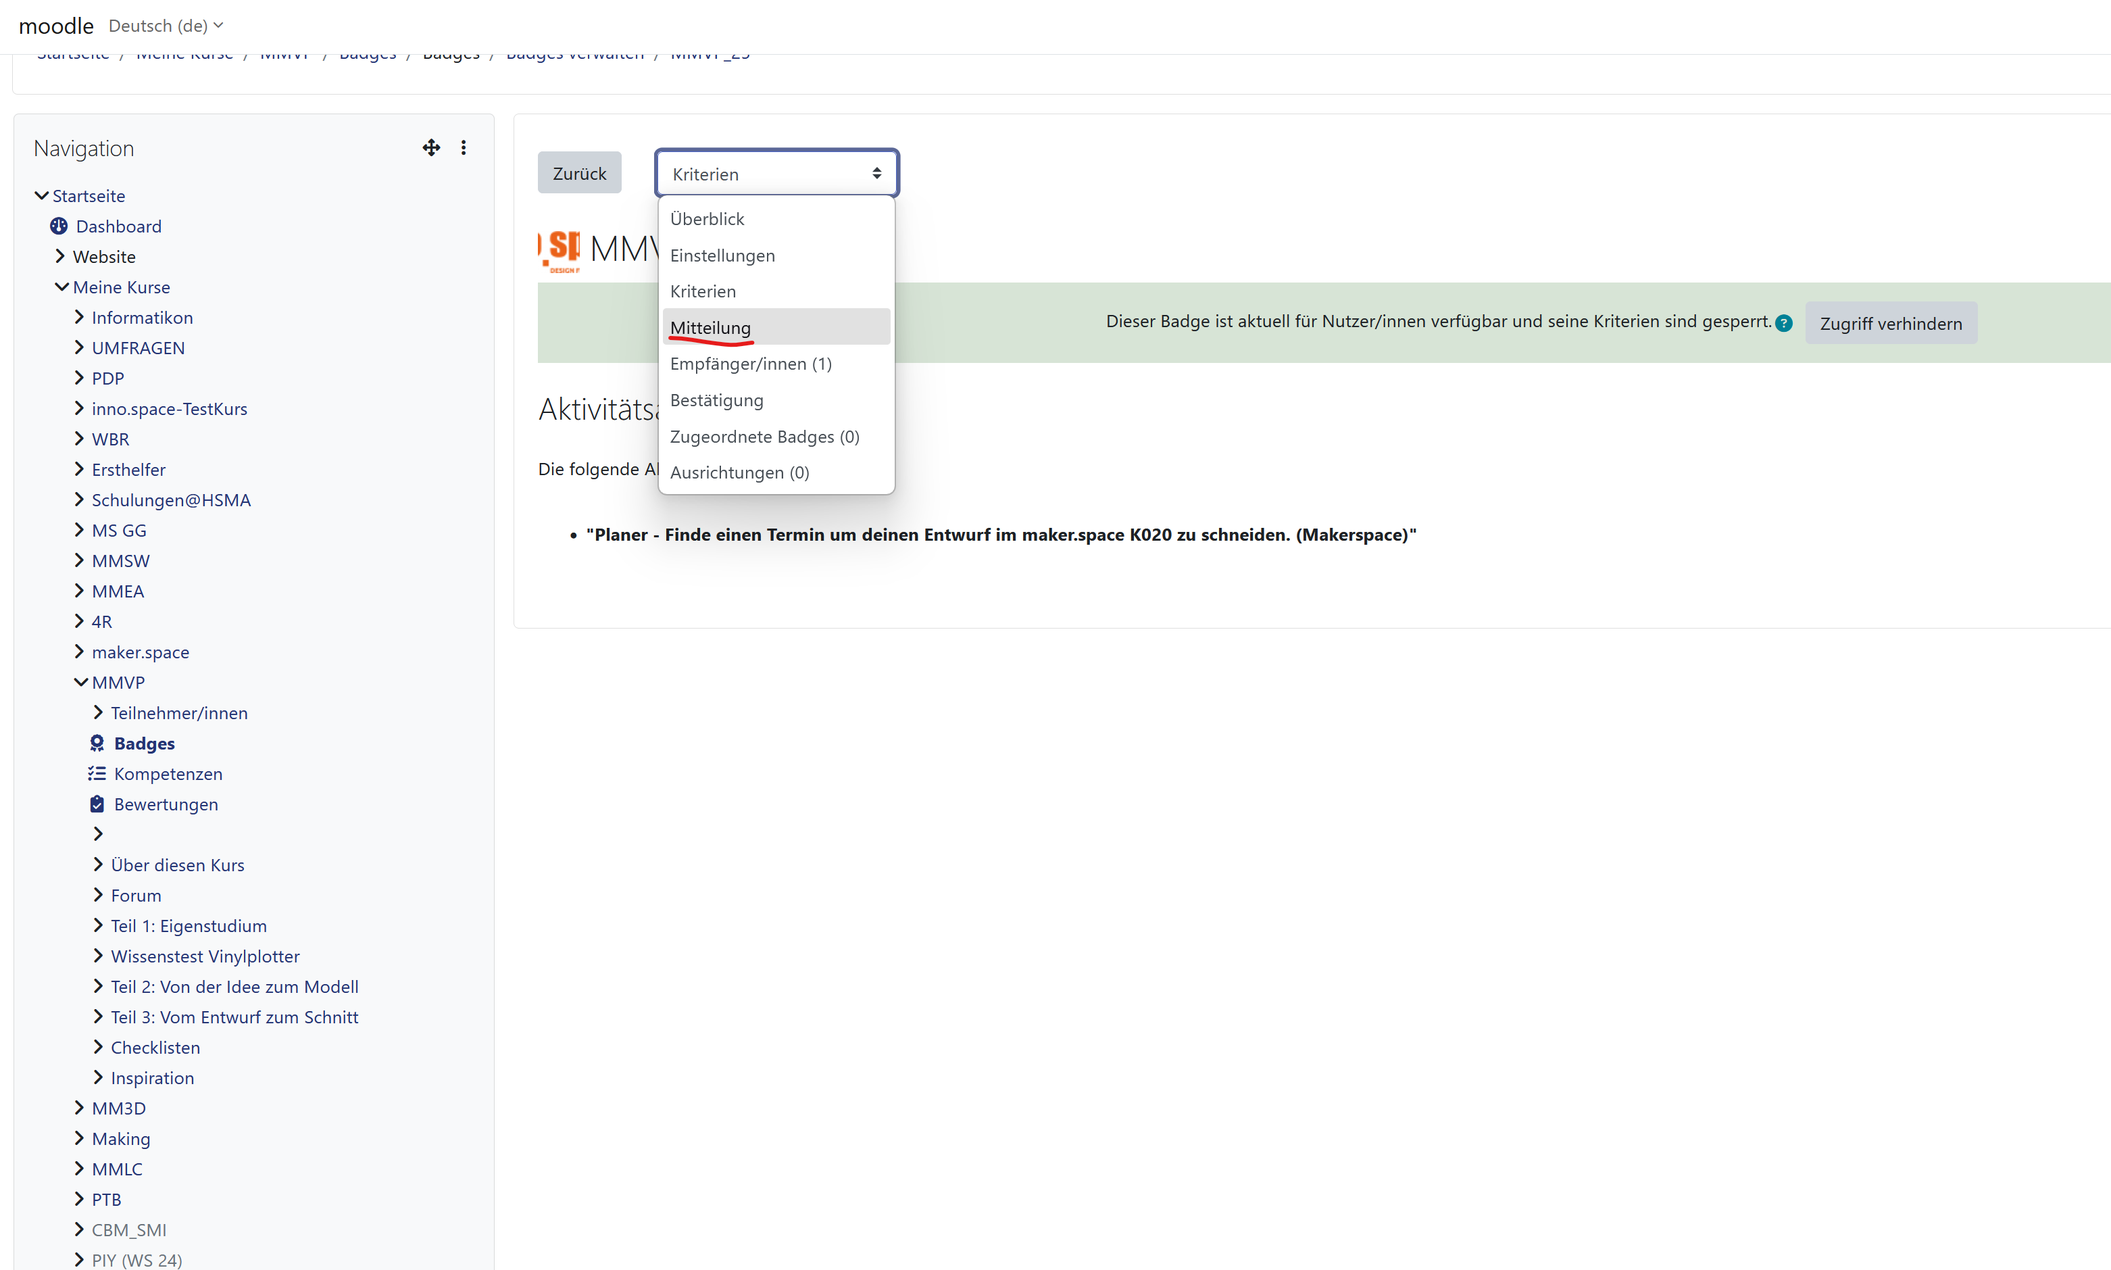
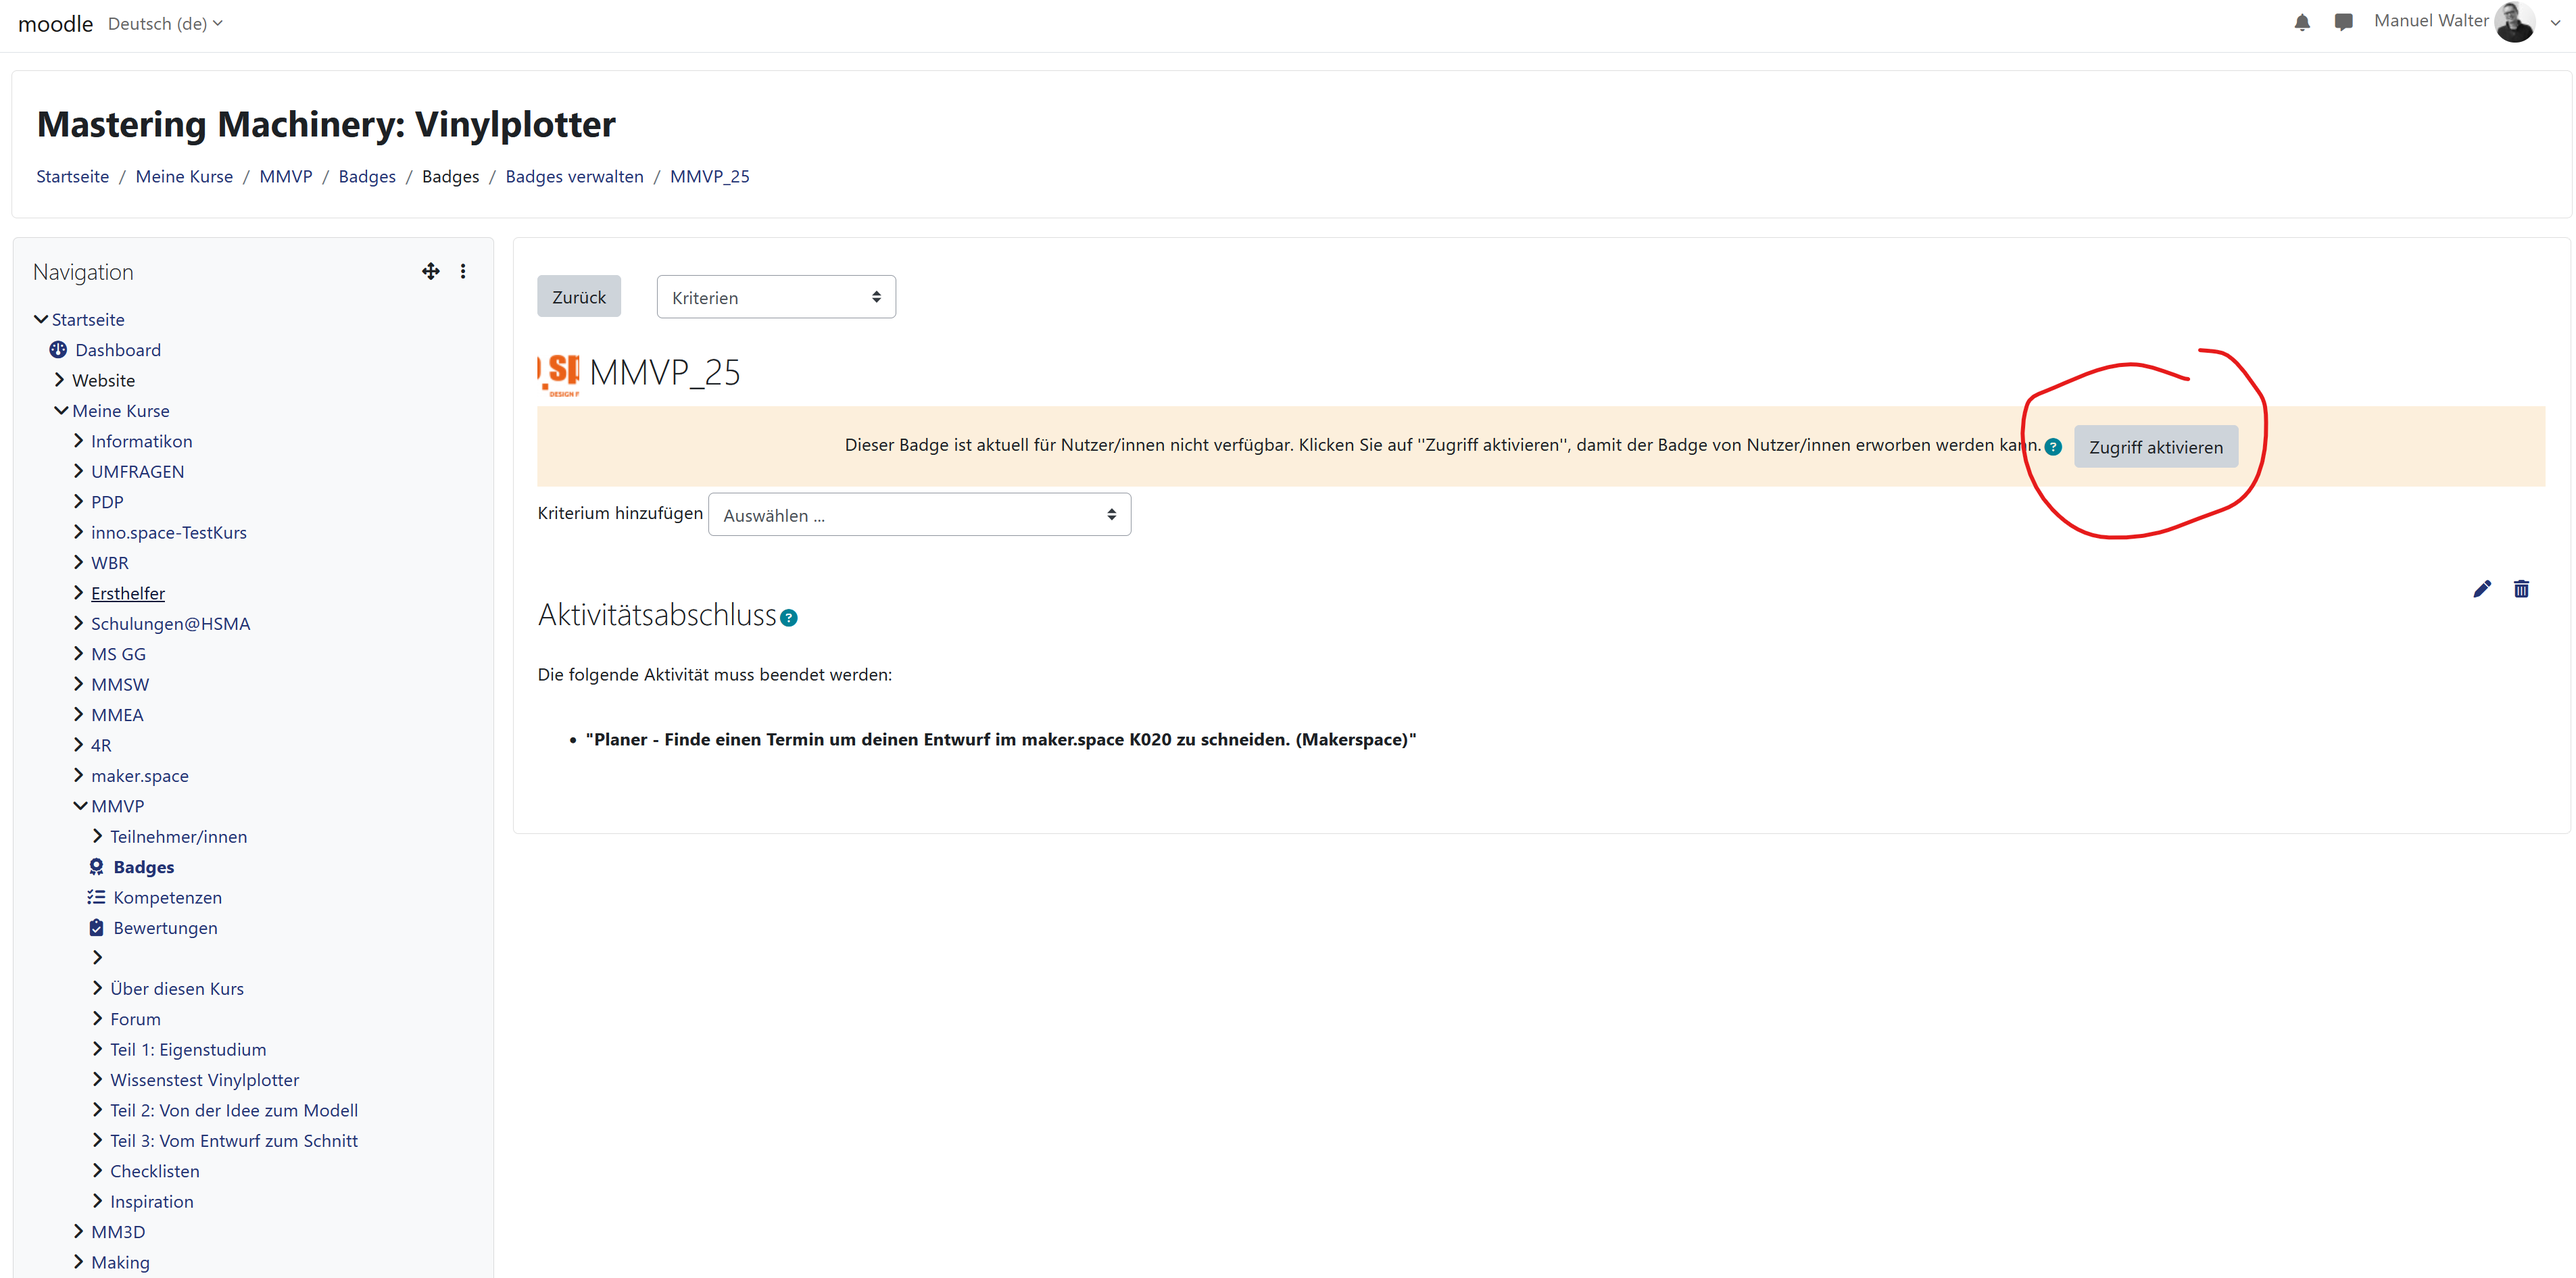
added tutorial for badges

diff --git a/README.md b/README.md
@@ -111,19 +111,112 @@ Nachfolgend befindet sich eine Schritt für Schritt Anleitung zum korrekten Anle
 
 
 ## Terminbuchungskalender für Präsenzschulungen
-Pro Schulung wird im entsprechenden Moodle Kurs ein Terminbuchungskalender (Planer) angelegt. Damit alles reibungslos funktioniert, muss der Kalender entsprechend der nachfolgenden Anleitung angelegt bzw. angepasst werden.
+Pro Schulung wird im entsprechenden Moodle Kurs ein Terminbuchungskalender (Planer) angelegt. Damit alles reibungslos funktioniert, muss der Kalender entsprechend der nachfolgenden Anleitung angelegt bzw. angepasst werden. Außerdem muss die Abschlussverfolgung in den jeweiligen Kurseinstellungen aktiviert sein. 
+
+### 0. Planereinstellungen öffnen
+- Die Einstellungen der entsprechenden Planeraktivität öffnen
+
+### 1. Bewertungen konfigurieren
+- Bewertung vom Typ Punkt mit Maximalpunkte 1 konfigurieren
+- Bewertungskategorie: Nicht kategorisiert
+- Bestehensgrenze: 1
+
+<center><img src="img_readme/MM-Kalenderbewertung1.png" width="1200" /></center>
 
 
+### 2. Abschlussbedingungen festlegen
+- Abschlussbedingung hinzufügen
+- Aktivität ist abgeschlossen, wenn TN eine Bewertung erhalten und damit die Bestehendgrenze erreichen
+
+! Wenn die Überschrift Abschlussbedingungen in den Einstellungen nicht zu finden ist, ist wahrscheinlich die Abschlussverfolgung in den Kurseinstellungen noch nicht aktiviert !
+
+<center><img src="img_readme/MM-Kalenderbewertung2.png" width="1200" /></center>
 
 
 ## Durchführung von Präsenzschulungen
 Nach Durchführung einer Präsenzschulung müssen alle Teilnehmer im jeweiligen Kalendertermin eine Bewertung erhalten, damit das entsprechende Badge vergeben wird.
+
+### 1. Teilnehmer auswählen
+- In der Übersicht über die Schulungstermine im entsprechenden Zeitslot auf den Teilnehmer klicken
+
+<center><img src="img_readme/Schulungsbewertung1a.png" width="1200" /></center>
+
+### 2. Teilnehmer bewerten
+- Wahrgenommen: Ja
+- Bewertung: 1
+- Änderungen speichern
+
+<center><img src="img_readme/Schulungsbewertung2a.png" width="1200" /></center>
+
 
 ## Badges
 Pro Schulung wird im entsprechenden Moodle Kurs ein Badge angelegt. 
 Badges müssen ein Mal pro Jahr neu angelegt werden. Das liegt daran, dass Maschinenberechtigungen nur ein Jahr gültig sein sollen, Badges aber nur ein einziges Mal vergeben werden können und auch nach Ablauf nicht noch einmal neu vergeben werden können. Daher werden zum 1.1. jedes Jahres alle Badges mit dem aktuellen Jahr neu angelegt, z.B. `MMLC_25`. Der Jahressuffix (`_25`) wird innerhalb der Integration ignoriert.
 
 Damit alles reibungslos funktioniert, muss das Badge entsprechend der nachfolgenden Anleitung angelegt werden.
+
+
+### 1. Badge erstellen - Navigation zu Badges
+
+- Auf den Badges Reiter in der Seitenleiste des Kurses klicken.
+- Neuen Badge anlegen klicken
+
+<center><img src="img_readme/Badge-erstellen1.png" width="800" /></center>
+
+### 2. Badge erstellen - Grundeinstellungen
+
+- Der Badgename besteht aus dem Kursnamen und den letzten zwei Stellen der aktuellen Jahreszahl, getrennt durch einen Unterstrich. Der Kursname sollte keine Leerzeichen enthalten. Beispiel: Kurs `MMVP`, Jahr 2025 = `MMVP_25`.
+- Beschreibung beliebig ausfüllen.
+- inno.space Logo oder anderes passendes Logo als Bild auswählen.
+
+<center><img src="img_readme/Badge-erstellen2.png" width="1200" /></center>
+
+### 3. Badge erstellen - Ablaufdatum
+- Ablaufdatum: Relative Zeit, 365 Tage nach der Verleihung
+- Badge anlegen
+
+<center><img src="img_readme/Badge-erstellen3.png" width="1200" /></center>
+
+### 4. Kriterium hinzufügen - Kriterium hinzufügen
+- Im Überblick über den Badge auf `Kriterium hinzufügen` klicken
+
+<center><img src="img_readme/Badge-erstellen4.png" width="1200" /></center>
+
+### 5. Kriterium hinzufügen - Art des Kriteriums
+- Im Dropdown Menü `Aktivitätsabschluss` auswählen. Damit wird das Badge bei Abschließen einer bestimmten Aktivität vergeben.
+
+<center><img src="img_readme/Badge-erstellen5.png" width="1200" /></center>
+
+### 6. Kriterium hinzufügen - Aktivitätsabschluss und Erfüllungsbedingungen
+- Bei Aktivitätsabschluss die zuvor konfigurierte Planer-Aktivität zur Buchung eines Präsenzschulungstermins anklicken
+- Dieses Kriterium is erfüllt, wenn ... eine der gewählten Aktivitäten ist abgeschlossen
+
+<center><img src="img_readme/Badge-erstellen6.png" width="1200" /></center>
+
+### 7. Mitteilung konfigurieren I
+- Aus dem Dropdown Menü oben links `Mitteilung auswählen`  
+(Grünes Banner kann auch gelb sein, das wird im nächsten Schritt behandelt)
+
+<center><img src="img_readme/Badge-erstellen7.png" width="1200" /></center>
+
+### 8. Mitteilung konfigurieren II
+- Ersteller/in benachrichtigen: Jederzeit
+- Änderungen speichern  
+(Grünes Banner kann auch gelb sein, das wird im nächsten Schritt behandelt)
+
+<center><img src="img_readme/Badge-erstellen8.png" width="1200" /></center>
+
+### 9. Zugriff aktivieren I
+- Im gelben Banner Zugriff aktivieren klicken
+
+<center><img src="img_readme/Badge-erstellen9.png" width="1200" /></center>
+
+### 10. Zugriff aktivieren II
+
+- Aktivieren klicken
+<center><img src="img_readme/Badge-erstellen10.png" width="1200" /></center>
+
+
 
 ## FabMan Schulungen
 Für jedes in Moodle durch eine Schulung erhältliches Badge muss ein korrespondierender Training Course in FabMan angelegt werden. Um die Zuordnung von Badges und Training Courses zu ermöglichen, muss der Name des Training Courses exakt dem Namen des Badges ohne Jahressuffix entsprechen.  
@@ -138,7 +231,9 @@ Für das Rendering der Zertifikate wird das npm Modul [docxtemplater](https://ww
 
 
 # Weitere Hinweise
-Es dürfen nur Personen FabMan Accounts erhalten, **welche die Nutzungsordnung in Moodle unterschrieben hochgeladen** haben. Diese kann in FabMan leider nicht abgebildet werden.
+- Es dürfen nur Personen FabMan Accounts erhalten, **welche die Nutzungsordnung in Moodle unterschrieben hochgeladen** haben. Diese kann in FabMan leider nicht abgebildet werden.
+
+- ggf. ist es notwendig, auch den Planer für die Präsenztermine jedes Jahr neu anzulegen, damit die Badges des neuen Jahres nicht rückwirkend für eine Schulungsteilnahme aus dem Vorjahr vergeben werden.
 
 # Anwendung starten
 - Auf einem docker-fähigen Gerät (bspw. RaspberryPi) [Docker](https://www.docker.com/) installieren.
